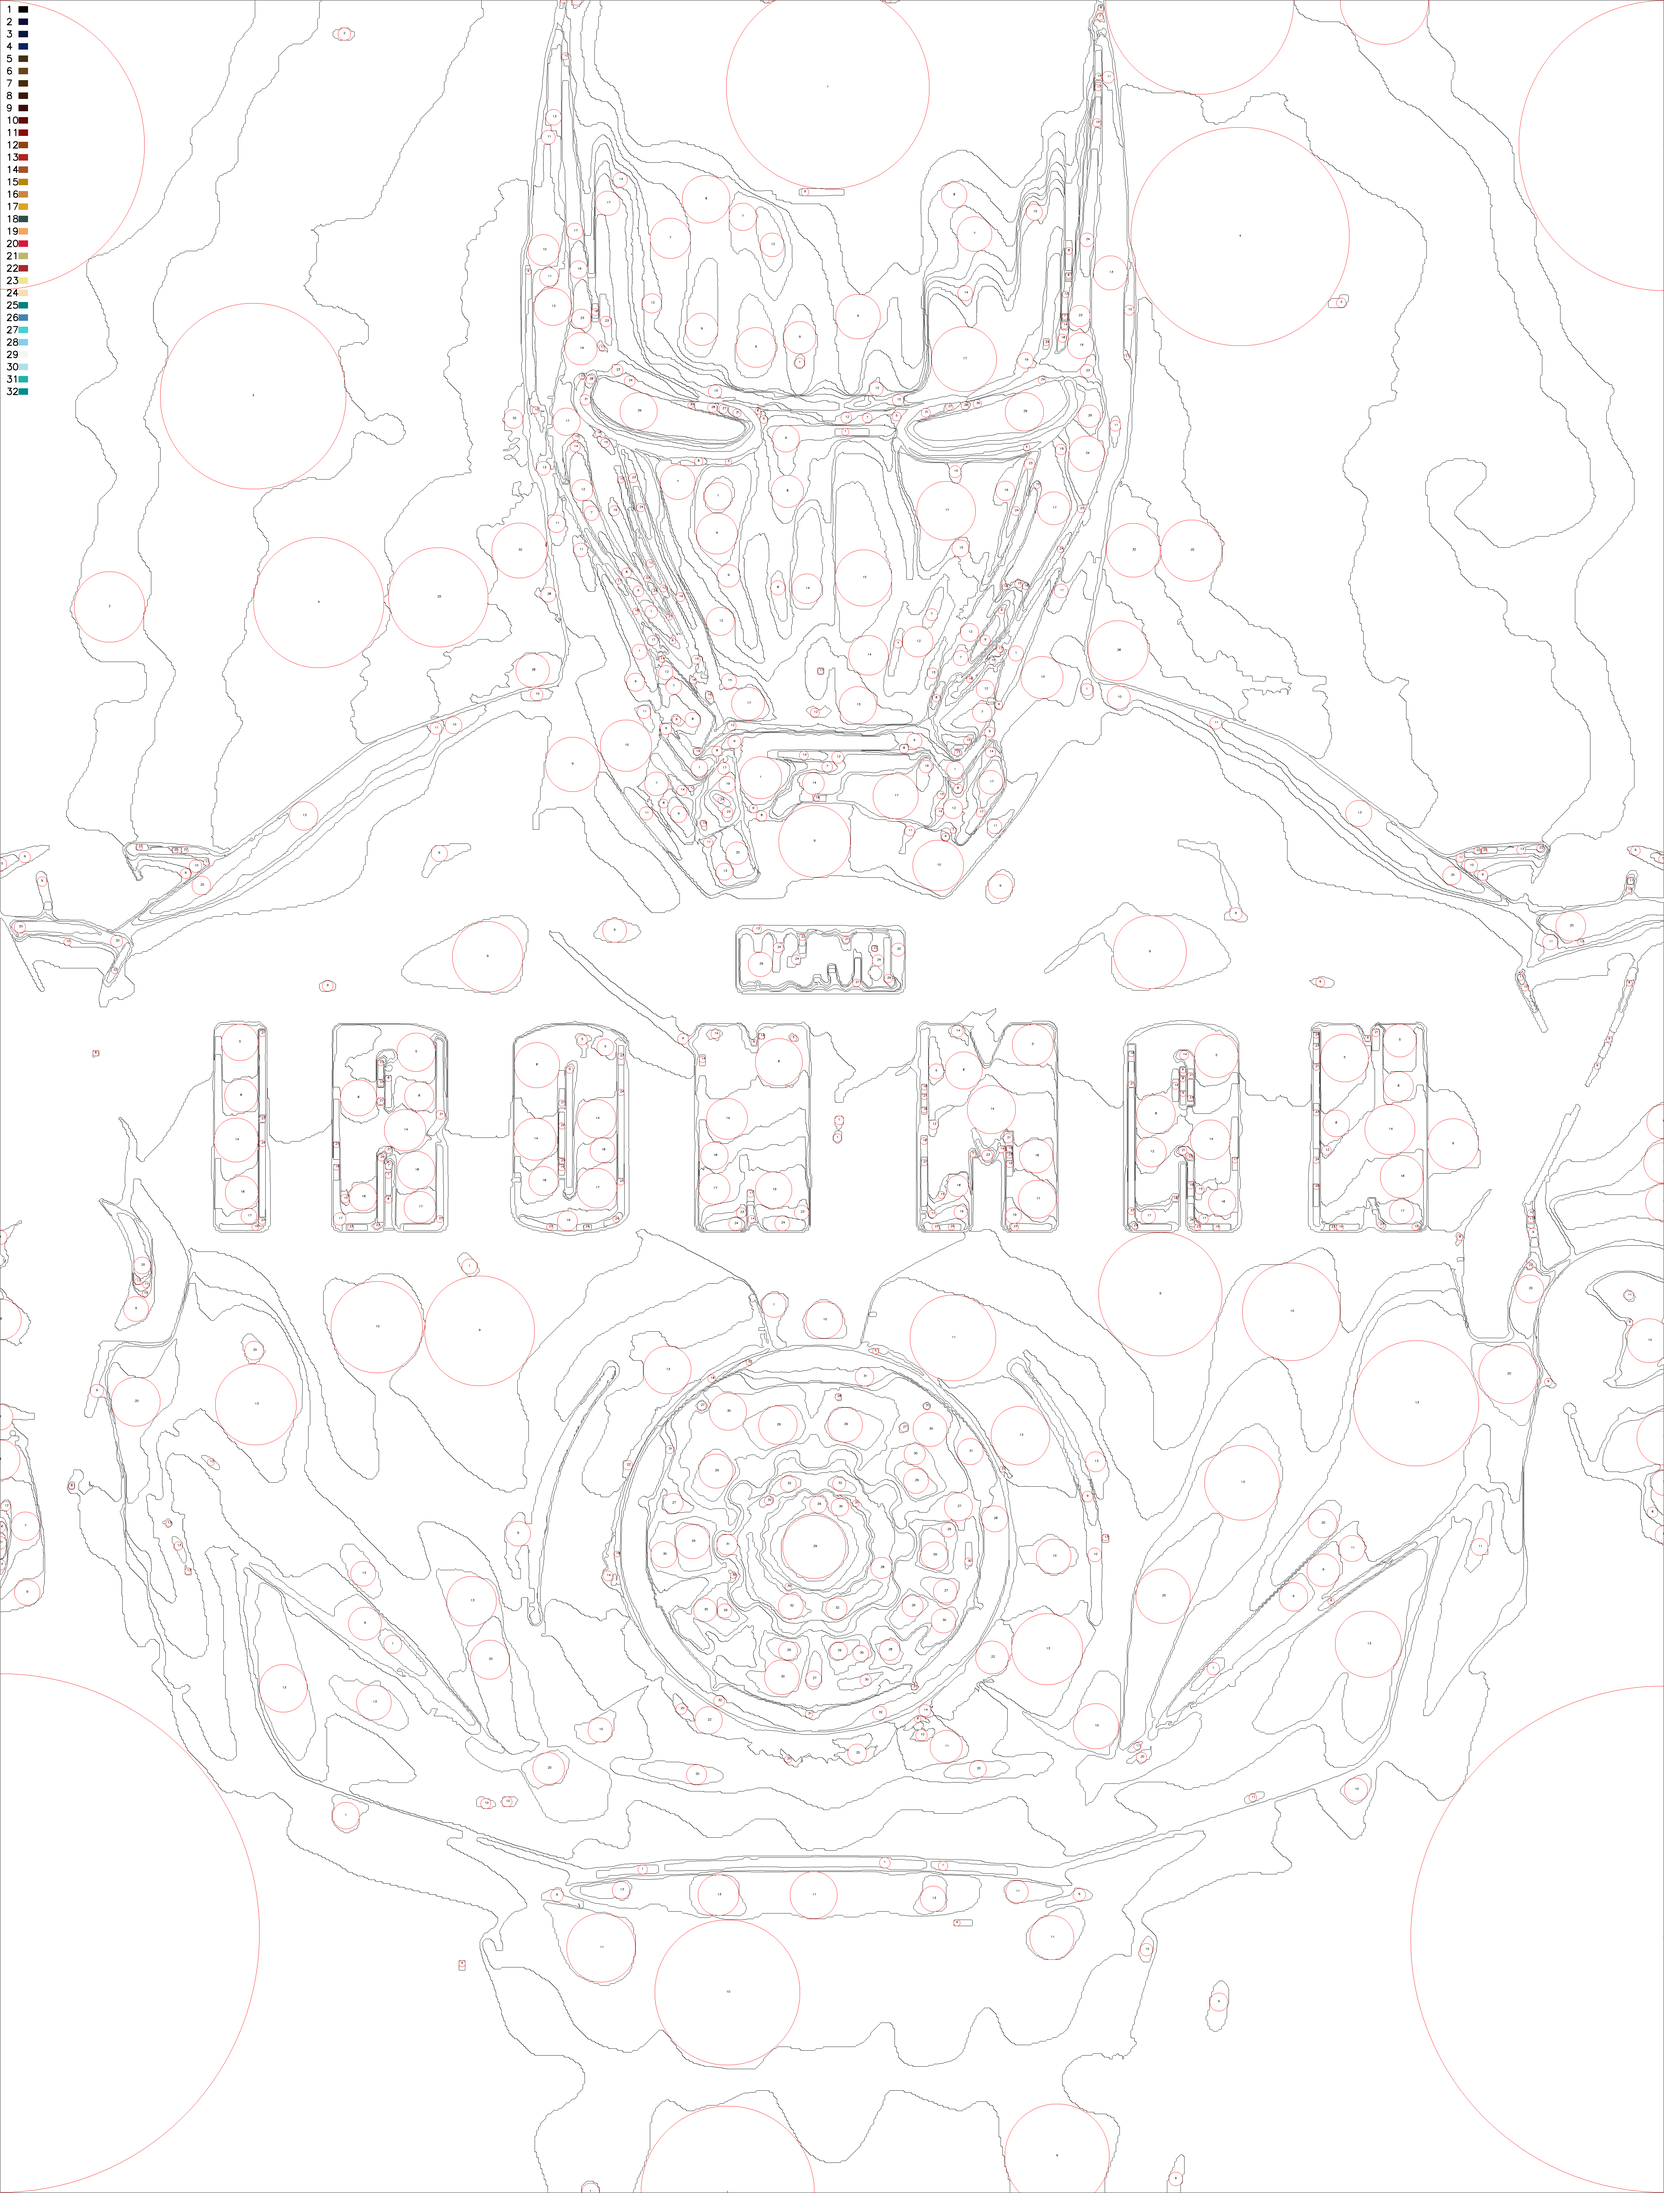
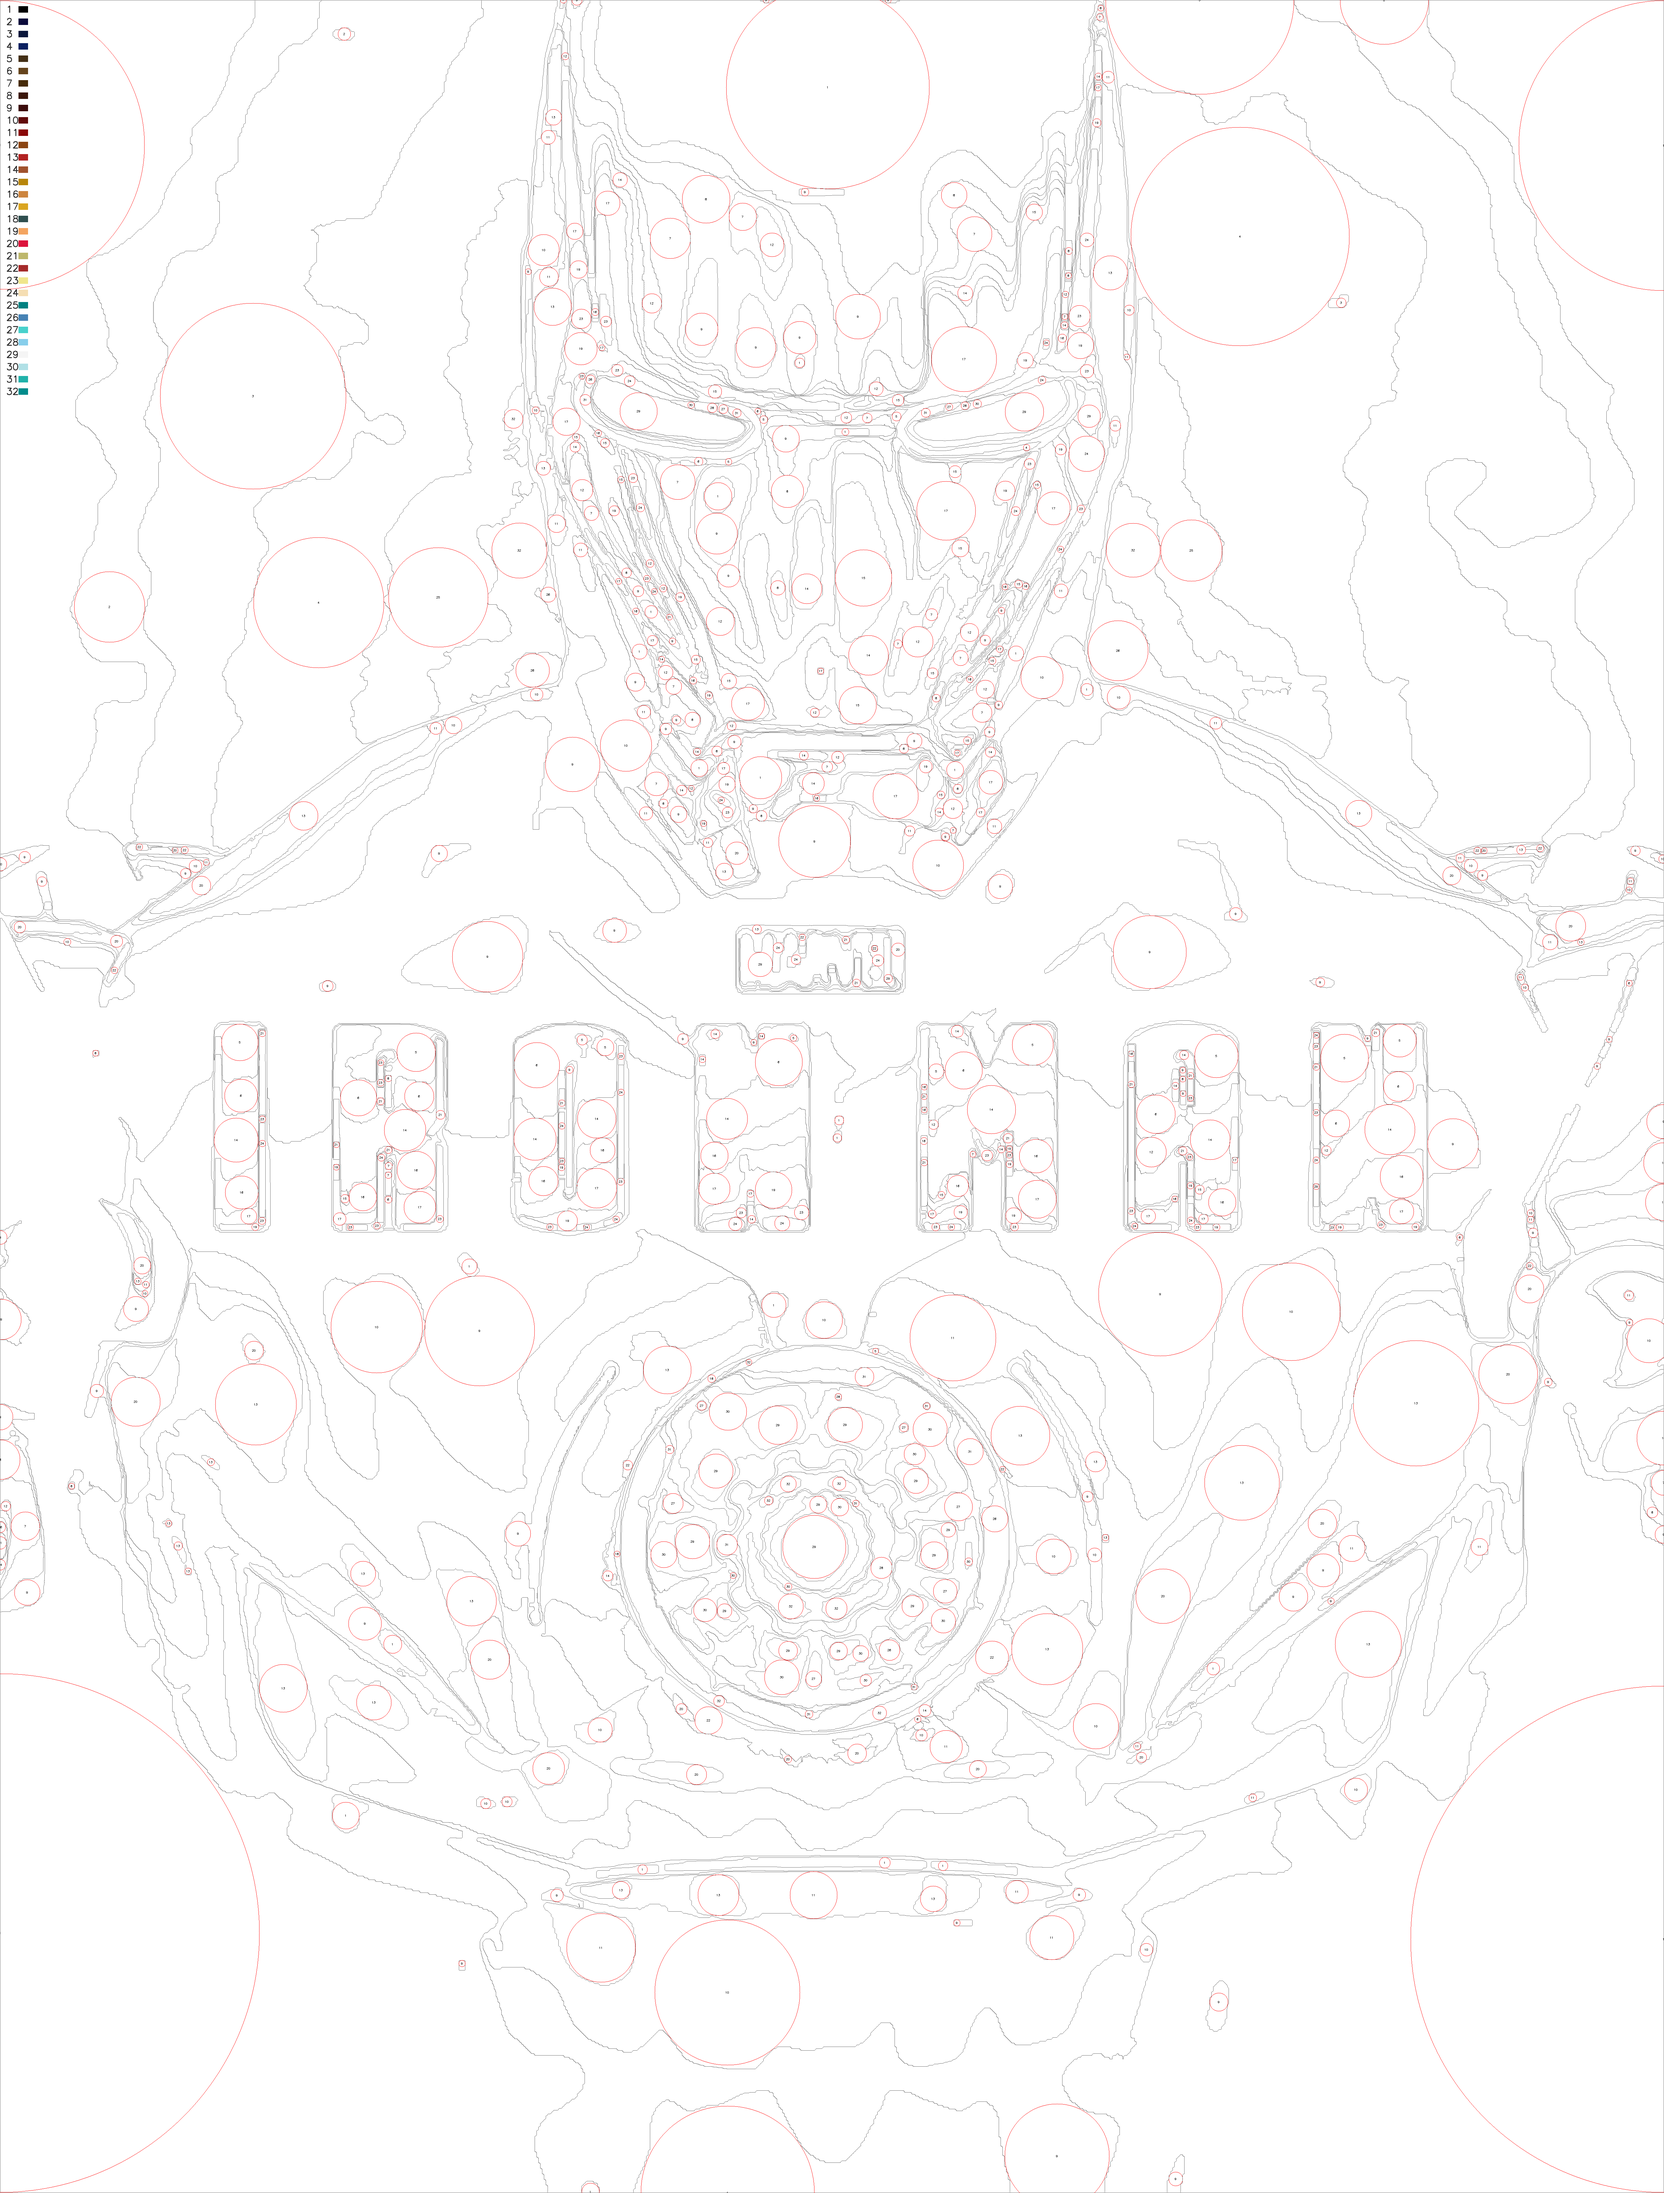
outline

Changed region(s): [[0.9956, 0.9983, 1.0, 1.0]]

diff --git a/libs/imageProcessing.py b/libs/imageProcessing.py
@@ -13,6 +13,7 @@ import numba
 from tqdm import trange
 import sys
 from multiprocessing_generator import ParallelGenerator
+from matplotlib import pyplot as plt
 
 
 # 색 리스트 반환 함수 (Minku koo)
@@ -54,6 +55,10 @@ def setLabel(image, num, pt):
     fontface = cv2.FONT_HERSHEY_SIMPLEX
     scale = 0.3 # 0.6
     thickness = 1 # 2
+
+    textsize = cv2.getTextSize(num, fontface, scale, thickness)[0]
+    pt = (int(pt[0]-(textsize[0]/2)), int(pt[1]+(textsize[1]/2)))
+
 
     cv2.putText(image, num, pt, fontface, scale, (0, 0, 0), thickness, 8)
 
@@ -295,6 +300,17 @@ def setColorNumberFromContours2(img, thresh, contours, hierarchy, img_lab, lab, 
         cv2.fillPoly(raw_dist, pts =[contours[i] for i in chlidren], color=(0, 0, 0))
 
 
+        # fig = plt.figure()
+
+        # a = np.copy(255-raw_dist)
+        # a = cv2.resize(a, dsize=(900, 1186), interpolation=cv2.INTER_AREA)
+        # cv2.imshow('hierarchy', a)
+        # cv2.waitKey(0)
+        # ax1 = fig.add_subplot(1, 2, 1)
+        # ax1.imshow(raw_dist)
+        # ax1.set_title('hierarchy')
+        # ax1.axis("off")
+
         # 내접원 반지름, 중심좌표 추출
         radius, center = getRadiusCenterCircle(raw_dist)
 
@@ -310,14 +326,22 @@ def setColorNumberFromContours2(img, thresh, contours, hierarchy, img_lab, lab, 
             # 컨투어 내부에 검출된 색을 표시
             color_text = label(img_lab, contour, lab, colorNames)
 
-            center = (center[0]-3, center[1])
+            center = (center[0], center[1])
             setLabel(img, color_text, center)
             # cv2.imwrite(f'./web/static/render_image/working_img.png', img)
 
 
             # contour 1개씩 그려지는거 확인
-            # cv2.imshow('draw_contour', img)
+            # b = np.copy(255-raw_dist)
+            # b = cv2.resize(b, dsize=(900, 1186), interpolation=cv2.INTER_AREA)
+            # cv2.imshow('draw_contour', b)
             # cv2.waitKey(0)
+            
+            # ax2 = fig.add_subplot(1, 2, 2)
+            # ax2.imshow(img)
+            # ax2.set_title('draw_contour')
+            # ax2.axis("off")
+            # plt.show()
 
     return img
 
